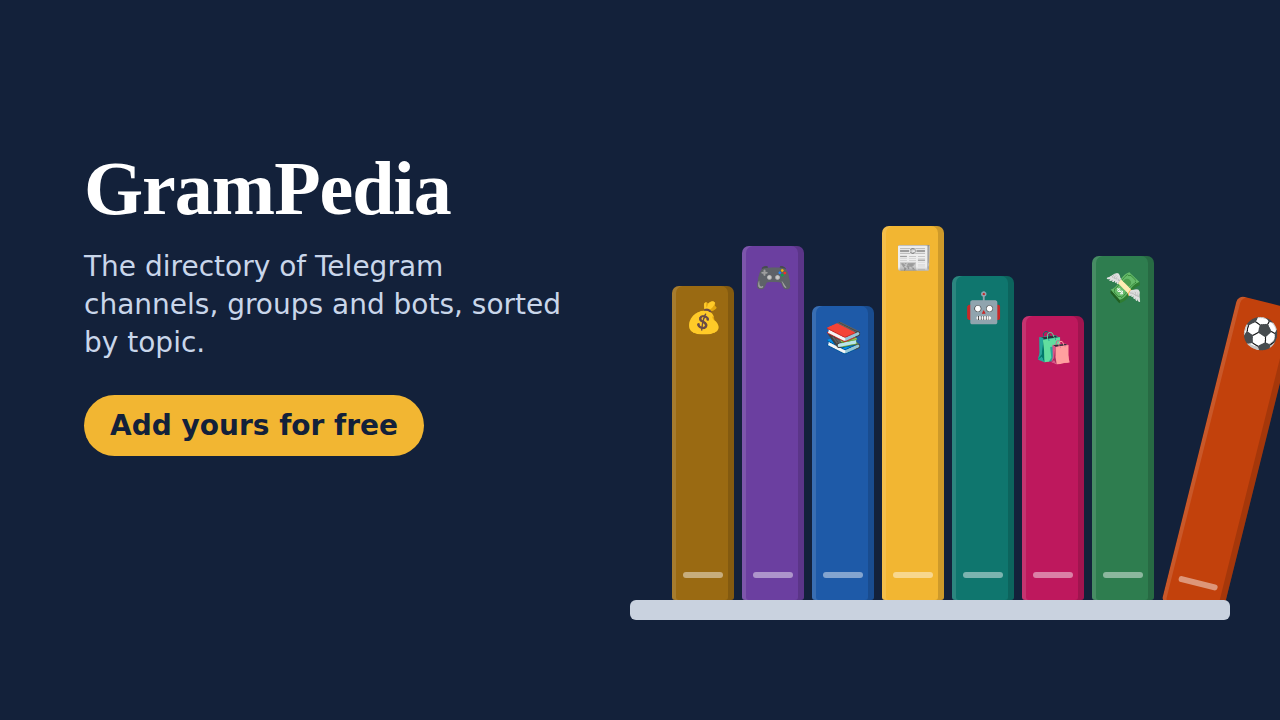
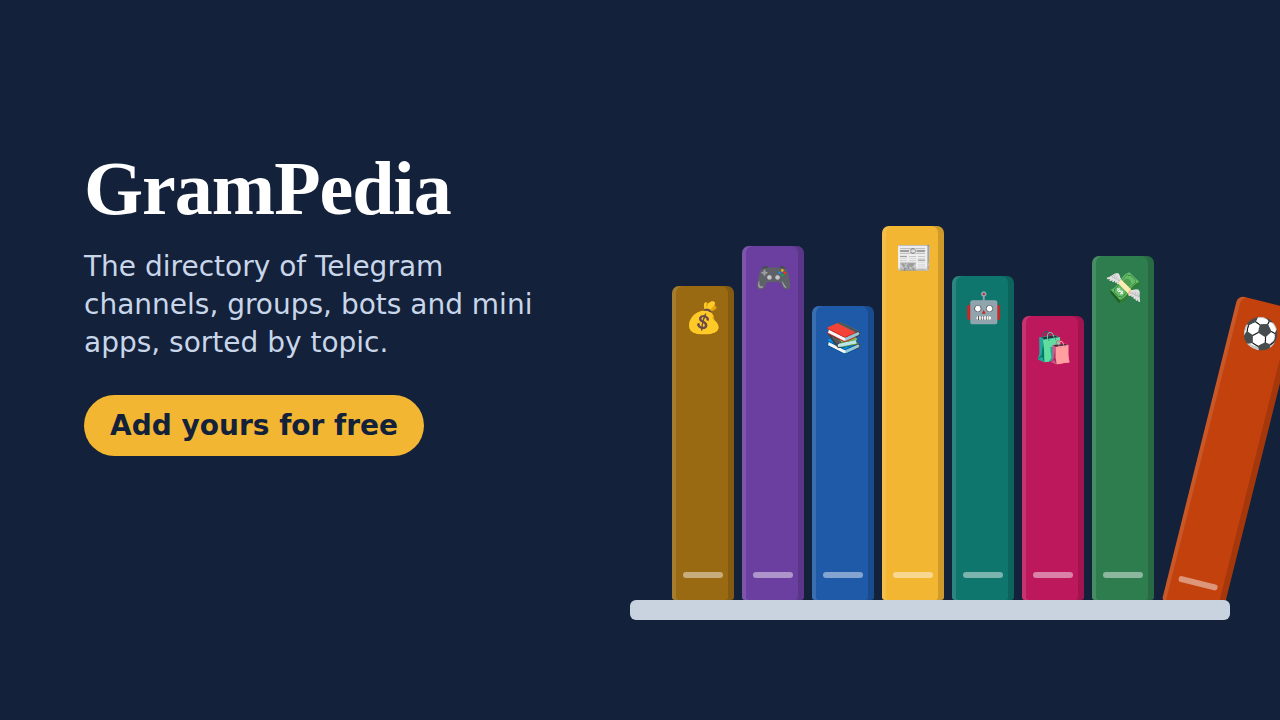
Mini apps everywhere; whole pictures

Changed region(s): [[0.0625, 0.3972, 0.4375, 0.4889]]

diff --git a/app/index.html b/app/index.html
@@ -82,7 +82,7 @@ textarea.inp{min-height:110px;resize:vertical}
 .sheet{background:#fff;width:100%;max-width:620px;border-radius:20px 20px 0 0;padding:10px 18px calc(18px + env(safe-area-inset-bottom));max-height:88vh;overflow:auto;animation:up .22s ease-out}
 @keyframes up{from{transform:translateY(40px);opacity:.4}}
 .grab{width:42px;height:5px;border-radius:3px;background:#d3dae5;margin:0 auto 12px}
-.sheet .hero{width:100%;aspect-ratio:16/9;object-fit:cover;border-radius:14px;background:#e7ecf3}
+.sheet .hero{width:100%;aspect-ratio:16/9;object-fit:contain;border-radius:14px;background:#e7ecf3}
 .sheet h3{font:800 24px/1.2 Fraunces,Georgia,serif;margin:14px 0 4px}
 .sheet .m{color:var(--muted);font-size:14px;font-weight:500}
 .sheet p{white-space:pre-wrap;color:#2b3547}
@@ -109,20 +109,20 @@ const API = 'https://pote-ia-bot-en-production.up.railway.app';
 const tgw = window.Telegram && Telegram.WebApp, INIT = tgw ? tgw.initData : '';
 const SPINE = { crypto: '#9a6a12', earn: '#2e7d4f', games: '#6b3fa0', fun: '#c2410c', news: '#334155', edu: '#1e5aa8', tech: '#0f766e', biz: '#7c2d12', deals: '#be185d', sport: '#15803d', media: '#7e22ce', life: '#4d7c0f', other: '#64748b' };
 const EN = {
- explore: 'Explore', add: 'Add', mine: 'My listings', search_ph: 'Search channels, groups and bots', listings: '{n} listings',
+ explore: 'Explore', add: 'Add', mine: 'My listings', search_ph: 'Search channels, groups, bots and mini apps', listings: '{n} listings',
  tp_crypto: 'Crypto & finance', tp_earn: 'Earn money', tp_games: 'Games', tp_fun: 'Fun & memes', tp_news: 'News', tp_edu: 'Education', tp_tech: 'Tech & AI', tp_biz: 'Business & marketing', tp_deals: 'Deals & shopping', tp_sport: 'Sports', tp_media: 'Music, movies & series', tp_life: 'Lifestyle & health', tp_other: 'Other',
  ty_all: 'All', ty_channel: 'Channels', ty_group: 'Groups', ty_bot: 'Bots', ty_app: 'Mini apps', one_channel: 'Channel', one_group: 'Group', one_bot: 'Bot', one_app: 'Mini app',
  l_all: '🌐 All languages', f_langs: 'Languages (up to 3)', e_langs: 'Choose at least one language.', ai_btn: '✨ Write it with AI', ai_wait: 'Writing…', ai_note: 'You can edit the text before sending.', e_ailimit: 'You used the AI a lot today. Try again tomorrow.',
  lg_en: 'English', lg_fr: 'French', lg_es: 'Spanish', lg_pt: 'Portuguese', lg_ru: 'Russian', lg_ar: 'Arabic', lg_hi: 'Hindi', lg_id: 'Indonesian', lg_tr: 'Turkish', lg_de: 'German', lg_it: 'Italian', lg_fa: 'Persian', lg_uk: 'Ukrainian', lg_zh: 'Chinese',
  sort_top: 'Most popular', sort_new: 'Newest', sorted_top: 'Sorted by audience', sorted_new: 'Newest first', members: '{n} subscribers', more: 'Show more',
- none_title: 'Nothing here yet', none_text: 'Be the first: add your channel, group or bot.', none_btn: 'Add mine', open: 'Open', see_post: 'See it on the channel',
+ none_title: 'Nothing here yet', none_text: 'Be the first: add your channel, group, bot or mini app.', none_btn: 'Add mine', open: 'Open', see_post: 'See it on the channel',
  add_title: 'Add your channel, group, bot or mini app', add_sub: 'Free. Every listing is reviewed by a human, then published in the app, on our website (visible on Google) and on our Telegram channel.',
  f_link: 'Its @username or t.me link', f_link_ph: '@yourchannel or t.me/yourbot/app', check: 'Find', checking: 'Searching…', f_type: 'It is a', f_topic: 'Topic', f_name: 'Name', f_desc: 'Description', f_desc_ph: 'What will people find there? Topics, rhythm of posts, what makes it different (80 to 500 characters).', f_photo: 'Picture', photo_auto: 'Its Telegram profile picture will be used.', photo_pick: 'Choose another picture', photo_need: 'Choose a picture', send: 'Send my listing', sending: 'Sending…',
  e_link: 'Enter a valid @username, for example @yourchannel.', e_notfound: 'We could not find it. Check that it is public and spelled correctly.', e_already: 'This one is already in GramPedia.', e_type: 'Choose what it is.', e_topic: 'Choose a topic.', e_name: 'Enter a name.', e_short: 'The description is too short: write at least 80 characters.', desc_left: '{n} more characters needed', desc_ok: '{n}/500', e_image: 'Choose a picture.', e_toomany: 'You already have 5 listings waiting for review.', e_server: 'Something went wrong. Try again.',
  sent_title: 'Listing sent', sent_text: 'We review it soon. Once published, it appears in the app, on our website (visible on Google) and on our channel, and the bot lets you know.', sent_btn: 'See my listings', add_another: 'Add another one',
- mine_empty_t: 'No listing yet', mine_empty: 'Add your channel, group or bot to GramPedia.', st_pending: 'In review', st_approved: 'Published', st_refused: 'Not accepted', st_unsub: 'Removed (left the channel)', remove: 'Remove', remove_q: 'Remove this listing from GramPedia?',
+ mine_empty_t: 'No listing yet', mine_empty: 'Add your channel, group, bot or mini app to GramPedia.', st_pending: 'In review', st_approved: 'Published', st_refused: 'Not accepted', st_unsub: 'Removed (left the channel)', remove: 'Remove', remove_q: 'Remove this listing from GramPedia?',
  gate_title: 'Join our channel to continue', gate_text: 'GramPedia is free for the subscribers of our channel, where new listings are published every day.', gate_join: 'Join the channel', gate_check: 'I joined', gate_not: 'Not yet: join the channel, then tap again.',
- help: 'Help', q1: 'Is it free?', a1: 'Yes. Adding a channel, group or bot to GramPedia is free.', q2: 'What can I add?', a2: 'Public Telegram channels, groups and bots. Each one is reviewed by a human before it appears.', q3: 'Where does my listing appear?', a3: 'In the GramPedia app, on our website (visible on Google) and on our Telegram channel.', q4: 'Why must I join the channel?', a4: 'GramPedia is reserved for its subscribers. If you leave the channel, your listings are removed.', q5: 'How are listings sorted?', a5: 'By topic, then by audience: the channels and groups with the most subscribers come first.', contact: 'Contact us', open_tg: 'Open GramPedia in Telegram', mod: 'Moderation', mod_users: 'users', mod_live: 'published', mod_wait: 'waiting', mod_none: 'Nothing to review', mod_none_t: 'Every listing has been handled.', mod_ok: 'Publish', mod_no: 'Refuse', mod_by: 'Sent by {who}', edit: 'Edit', edit_title: 'Edit the listing', edit_save: 'Save the changes', edit_sent: 'Changes sent: they will be online after review.', edit_live: 'Changes saved.', editing: 'Changes in review', mod_edit: 'Change', photo_keep: 'Current picture', photo_new: 'New picture'
+ help: 'Help', q1: 'Is it free?', a1: 'Yes. Adding a channel, group or bot to GramPedia is free.', q2: 'What can I add?', a2: 'Public Telegram channels, groups, bots and mini apps. Each one is reviewed by a human before it appears.', q3: 'Where does my listing appear?', a3: 'In the GramPedia app, on our website (visible on Google) and on our Telegram channel.', q4: 'Why must I join the channel?', a4: 'GramPedia is reserved for its subscribers. If you leave the channel, your listings are removed.', q5: 'How are listings sorted?', a5: 'By topic, then by audience: the channels and groups with the most subscribers come first.', contact: 'Contact us', open_tg: 'Open GramPedia in Telegram', mod: 'Moderation', mod_users: 'users', mod_live: 'published', mod_wait: 'waiting', mod_none: 'Nothing to review', mod_none_t: 'Every listing has been handled.', mod_ok: 'Publish', mod_no: 'Refuse', mod_by: 'Sent by {who}', edit: 'Edit', edit_title: 'Edit the listing', edit_save: 'Save the changes', edit_sent: 'Changes sent: they will be online after review.', edit_live: 'Changes saved.', editing: 'Changes in review', mod_edit: 'Change', photo_keep: 'Current picture', photo_new: 'New picture'
 };
 let T = EN, ME = null, TAB = 'explore';
 const S = { lang: '', type: '', topic: '', sort: 'top', q: '', items: [], total: 0, off: 0, byTopic: {}, byType: {} };
@@ -289,7 +289,7 @@ async function mine() {
 async function mod() {
   load(); const r = await api('mod'); const xs = r.items || [];
   $('app').innerHTML = `<h1>${esc(t('mod'))}</h1><p class="sub">${nf(r.users)} ${esc(t('mod_users'))}, ${nf(r.live)} ${esc(t('mod_live'))}, ${nf(r.wait)} ${esc(t('mod_wait'))}</p>`
-    + (xs.length ? xs.map((x) => `<div class="idx" style="margin-bottom:14px" id="m${x.id}">${x.img ? `<img src="${API + x.img}" alt="" style="width:100%;aspect-ratio:16/9;object-fit:cover;display:block">` : ''}<div style="padding:14px">${x.edit ? `<span class="pill pending" style="margin-bottom:8px">✏ ${esc(t('mod_edit'))}</span><br>` : ''}<b class="serif" style="font-size:20px">${esc(x.edit ? x.edit.name : x.name)}</b><div class="hint" style="margin:4px 0 8px">${esc(metaOf(x.edit ? { ...x, ...x.edit } : x))}${x.uname ? ' · @' + esc(x.uname) : ''}${x.edit && x.edit.photo ? ' · 🖼' : ''}</div><p style="margin:0 0 8px">${esc(x.edit ? x.edit.descr : x.descr || '')}</p>${x.edit && (x.edit.name !== x.name || x.edit.descr !== x.descr) ? `<p class="hint" style="margin:0 0 8px;text-decoration:line-through">${esc(x.name)}: ${esc(x.descr || '')}</p>` : ''}<p class="hint" style="margin:0 0 12px">${esc(t('mod_by', { who: x.by }))}</p>
+    + (xs.length ? xs.map((x) => `<div class="idx" style="margin-bottom:14px" id="m${x.id}">${x.img ? `<img src="${API + x.img}" alt="" style="width:100%;aspect-ratio:16/9;object-fit:contain;background:#e7ecf3;display:block">` : ''}<div style="padding:14px">${x.edit ? `<span class="pill pending" style="margin-bottom:8px">✏ ${esc(t('mod_edit'))}</span><br>` : ''}<b class="serif" style="font-size:20px">${esc(x.edit ? x.edit.name : x.name)}</b><div class="hint" style="margin:4px 0 8px">${esc(metaOf(x.edit ? { ...x, ...x.edit } : x))}${x.uname ? ' · @' + esc(x.uname) : ''}${x.edit && x.edit.photo ? ' · 🖼' : ''}</div><p style="margin:0 0 8px">${esc(x.edit ? x.edit.descr : x.descr || '')}</p>${x.edit && (x.edit.name !== x.name || x.edit.descr !== x.descr) ? `<p class="hint" style="margin:0 0 8px;text-decoration:line-through">${esc(x.name)}: ${esc(x.descr || '')}</p>` : ''}<p class="hint" style="margin:0 0 12px">${esc(t('mod_by', { who: x.by }))}</p>
       <div style="display:grid;grid-template-columns:1fr 1fr;gap:8px"><button class="btn main" data-ok="${x.id}" data-kind="${x.edit ? 'edit' : ''}">✅ ${esc(t('mod_ok'))}</button><button class="btn" data-no="${x.id}" data-kind="${x.edit ? 'edit' : ''}">❌ ${esc(t('mod_no'))}</button></div><button class="btn small" data-open="${esc(x.link)}" style="width:100%;margin-top:8px">🔗 ${esc(t('open'))} ${x.uname ? '@' + esc(x.uname) : ''}</button></div></div>`).join('')
       : `<div class="empty"><b>${esc(t('mod_none'))}</b>${esc(t('mod_none_t'))}</div>`);
   const act = async (id, ok, b) => { b.disabled = true; const r2 = await api('decide', { id, ok, kind: b.dataset.kind || '' }); haptic('medium'); toast(r2.msg || ''); const card = $('m' + id); if (card) card.remove(); if (!$('app').querySelector('[data-ok]')) mod(); };
